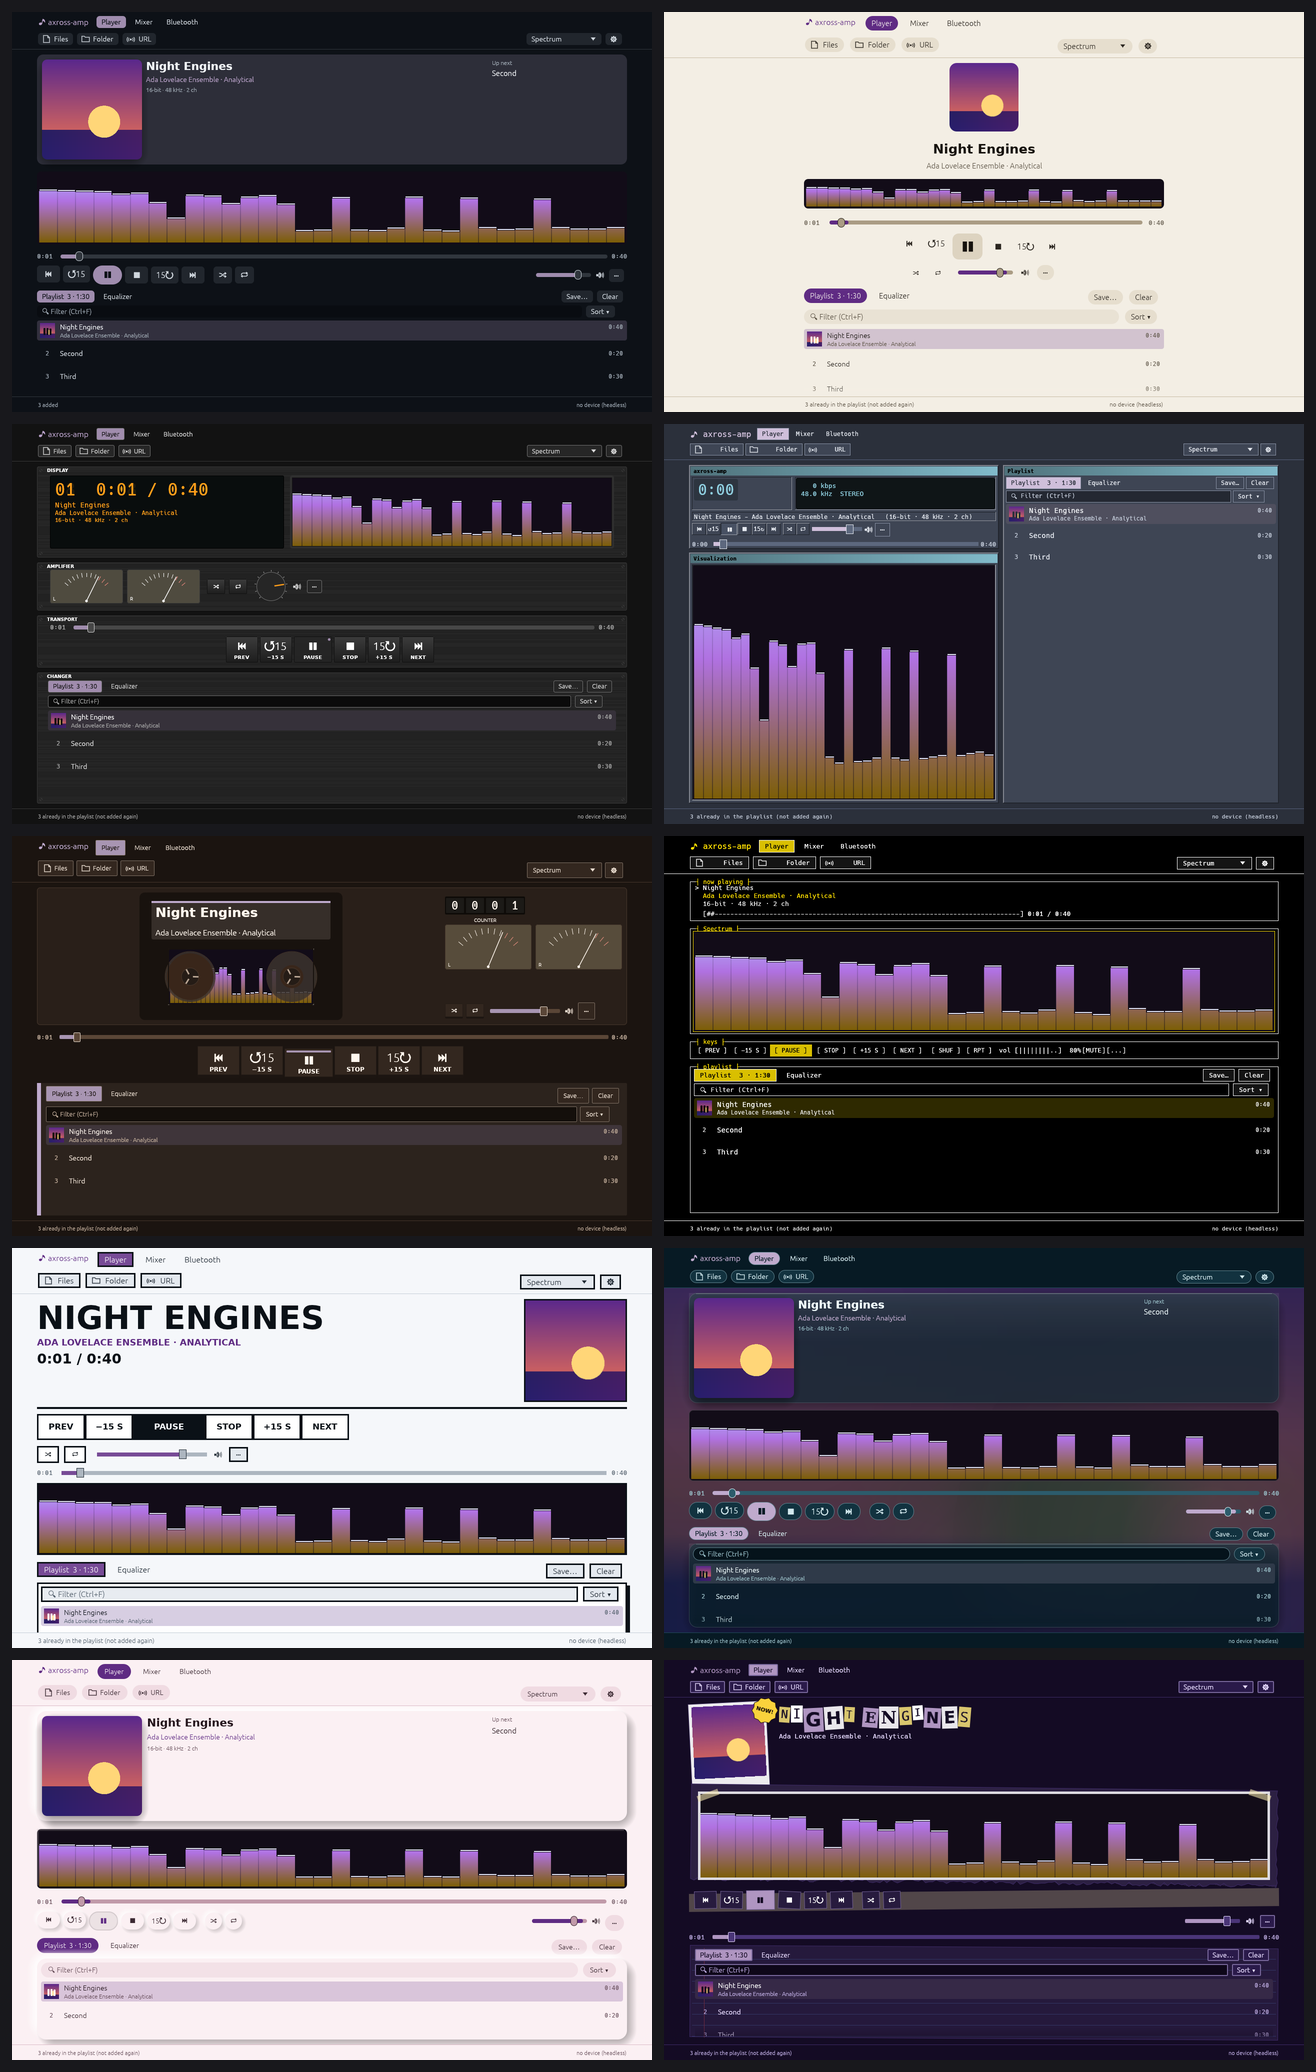
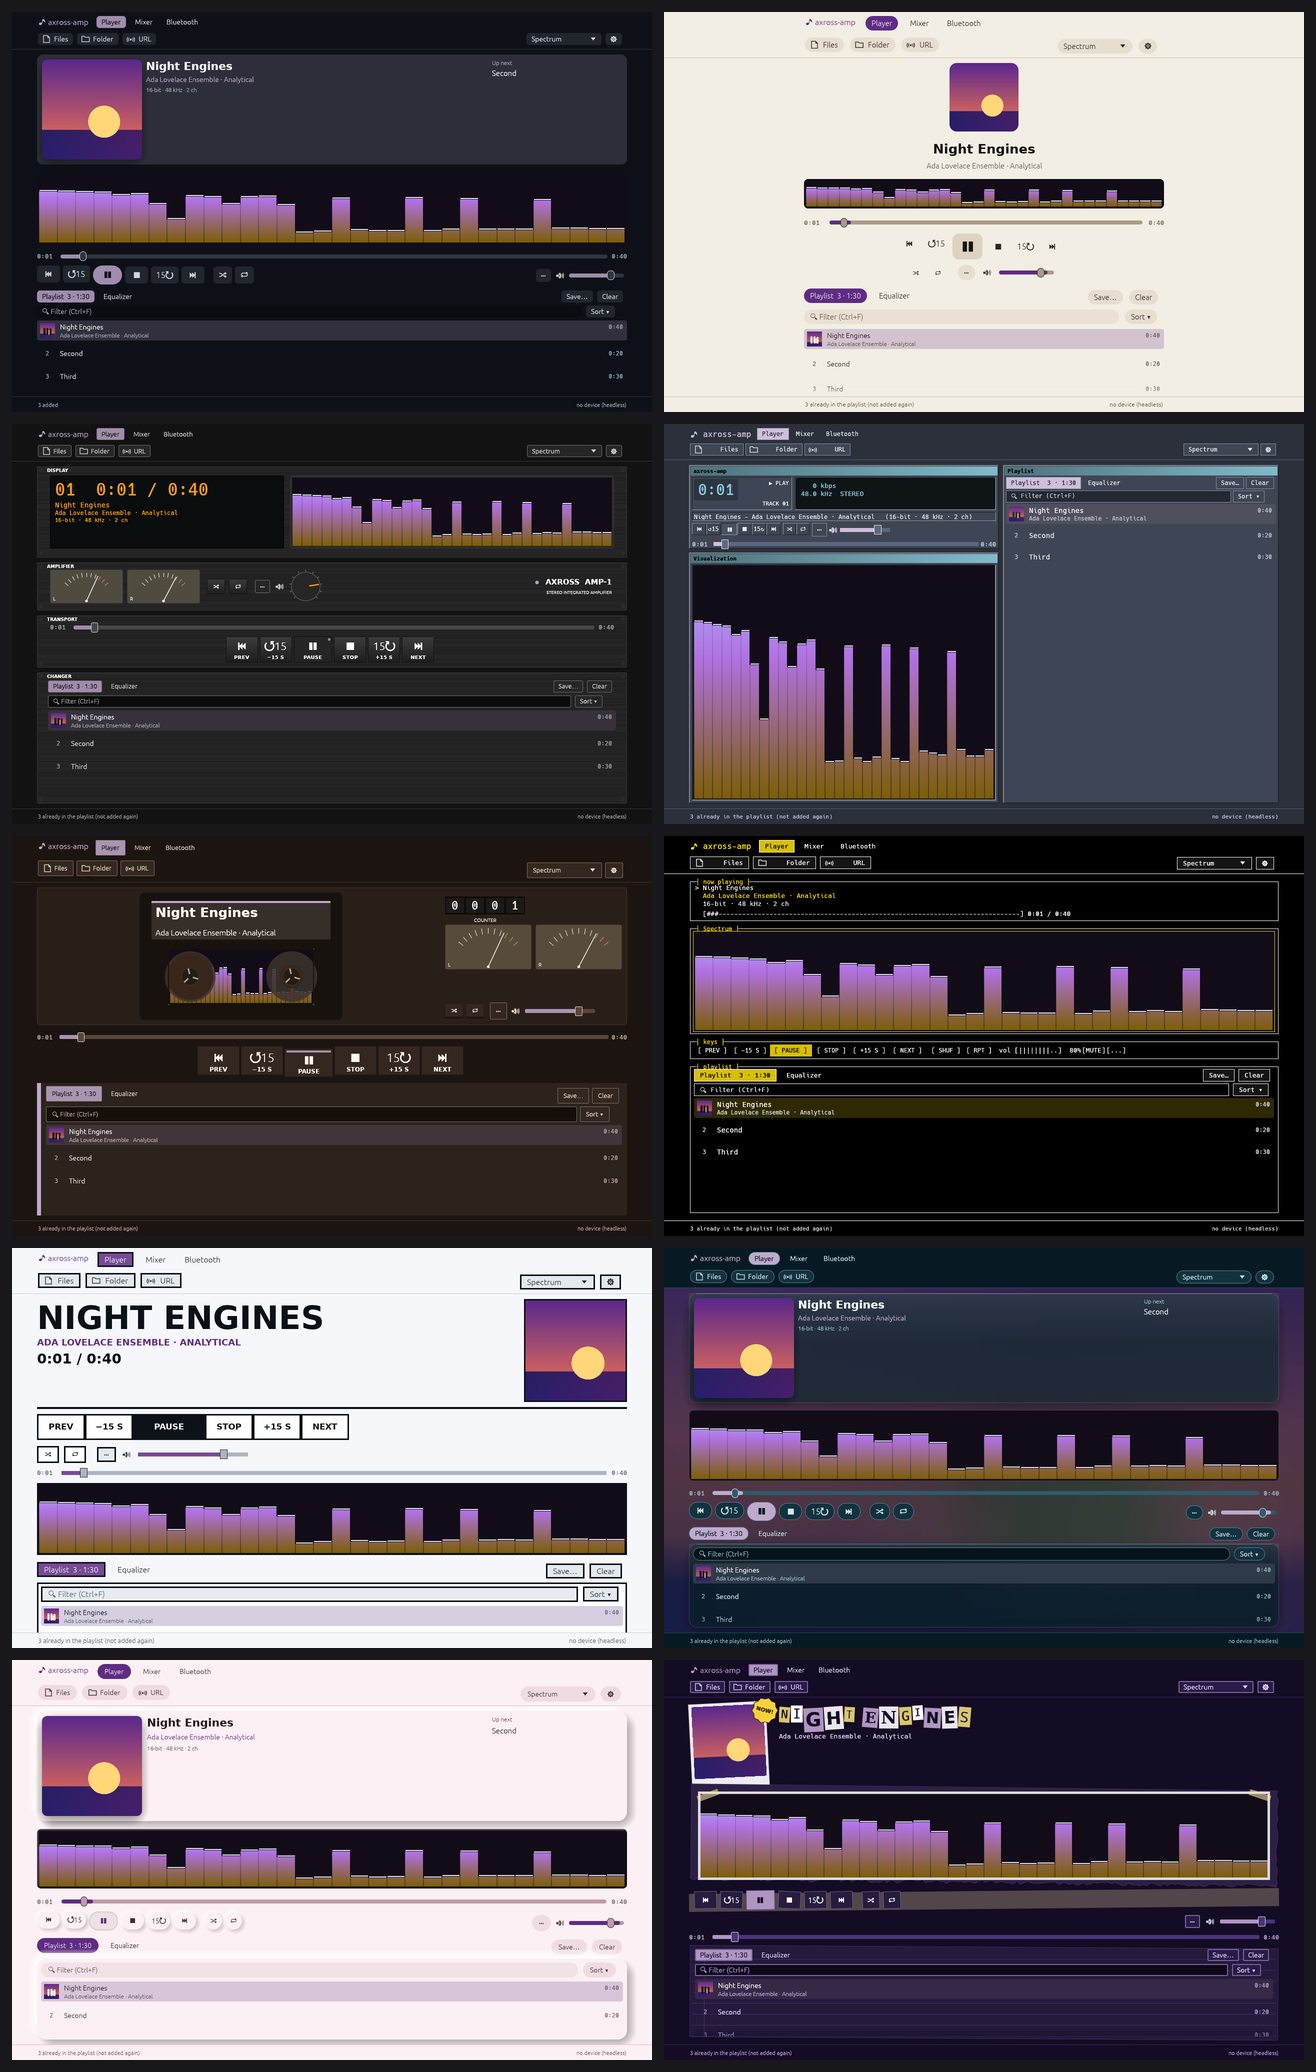
README for review 8; the volume at the row's end again; no shadow on the brutalist slab; the gallery at 1280 x 800
- README: Show on display (sound matched by the display's name, put back
  with the card's profile and across a restart, never holding the window,
  the guard in points, Wayland's list, xrandr only when wanted), following
  the desktop, the designs as layouts, focused controls keep their keys,
  paused stays paused, the gamma red reading and the sweep's numbers, and
  the guard's cost - not met, said so.
- The volume group left to right as it was seen before: ⋯, mute, the
  volume at the row's end (tests/states.rs and tests/seek15.rs expect it).

Changed region(s): [[0.9035, 0.7104, 0.9658, 0.7413], [0.1558, 0.6795, 0.1869, 0.7104], [0.0623, 0.6795, 0.0935, 0.7104]]

diff --git a/src/app_layouts.rs b/src/app_layouts.rs
@@ -142,6 +142,35 @@ impl App {
     /// The volume (a slider, or a knob of `knob` points), mute and the ⋯
     /// menu, left to right; the sleep timer's words after them.
     pub(super) fn volume_group(&mut self, ui: &mut Ui, knob: Option<f32>, slider: f32) {
+        // (left to right as they are seen: the sleep timer's words, ⋯,
+        // mute, the volume at the end)
+        if let Some(label) = self.sleep_label() {
+            ui.label(RichText::new(label).small().color(self.accent));
+        }
+        egui::containers::menu::MenuButton::from_button(
+            egui::Button::new(RichText::new("⋯").size(16.0)).min_size(vec2(24.0, 24.0)),
+        )
+        .ui(ui, |ui| self.more_menu(ui))
+        .0
+        .accessible_name("More")
+        .on_hover_text("Sleep timer, ReplayGain, track details, mixer");
+        let icon = if self.muted || self.volume == 0 {
+            "🔇"
+        } else {
+            "🔊"
+        };
+        if ui
+            .add(
+                egui::Button::new(RichText::new(icon).size(16.0))
+                    .frame(false)
+                    .min_size(vec2(24.0, 24.0)),
+            )
+            .accessible_name("Mute")
+            .on_hover_text("Mute (M)")
+            .clicked()
+        {
+            self.set_muted(!self.muted);
+        }
         let mut volume = self.volume;
         let response = match knob {
             Some(side) => design::knob(ui, &mut volume, "Volume", side),
@@ -162,33 +191,6 @@ impl App {
         let notches = self.wheel_steps(ui, &response);
         if notches != 0 {
             self.set_volume((self.volume as i32 + 5 * notches).clamp(0, 100) as u32);
-        }
-        let icon = if self.muted || self.volume == 0 {
-            "🔇"
-        } else {
-            "🔊"
-        };
-        if ui
-            .add(
-                egui::Button::new(RichText::new(icon).size(16.0))
-                    .frame(false)
-                    .min_size(vec2(24.0, 24.0)),
-            )
-            .accessible_name("Mute")
-            .on_hover_text("Mute (M)")
-            .clicked()
-        {
-            self.set_muted(!self.muted);
-        }
-        egui::containers::menu::MenuButton::from_button(
-            egui::Button::new(RichText::new("⋯").size(16.0)).min_size(vec2(24.0, 24.0)),
-        )
-        .ui(ui, |ui| self.more_menu(ui))
-        .0
-        .accessible_name("More")
-        .on_hover_text("Sleep timer, ReplayGain, track details, mixer");
-        if let Some(label) = self.sleep_label() {
-            ui.label(RichText::new(label).small().color(self.accent));
         }
     }
 

diff --git a/src/design.rs b/src/design.rs
@@ -694,18 +694,7 @@ pub fn panel(p: &Painter, rect: Rect, d: &Design, t: &Theme, fill: Color32, seed
                 Stroke::new(3.0, t.strong),
                 egui::StrokeKind::Inside,
             );
-            // the slab's offset block below right: a hard shadow
-            let block = rect.translate(vec2(6.0, 6.0));
-            p.rect_filled(
-                Rect::from_min_max(pos2(rect.right(), block.top()), block.right_bottom()),
-                0.0,
-                t.strong,
-            );
-            p.rect_filled(
-                Rect::from_min_max(pos2(block.left(), rect.bottom()), block.right_bottom()),
-                0.0,
-                t.strong,
-            );
+            // (no shadow: a brutalist slab is flat - its weight is its frame)
         }
         Panel::Paper => {
             // a sheet behind, turned a little (still: no motion), the card

diff --git a/README.md b/README.md
@@ -402,13 +402,23 @@ What axross-amp does about it:
   half after. Seven, not six: the veil's own coming is a change too, and
   at six it would make the seventh. So the guard does not by itself hold a
   face to six; it caps what the faces do not foresee. On ordinary music - pop,
-  house, drum and bass - it does not come (a test). It costs about 1.5 - 3.5
-  ms of the CPU a frame (`--release`, `tests/frame_cost.rs`, the faces with
-  and without it: the spectrum 1.6, the cover 1.9, the plasma 1.5); more for
-  the faces of thousands of pieces: the spirograph 4 - 6 ms, the particles
-  7 - 9 ms at 1920 x 1080 and 3840 x 2160, the skyline 5.5 ms at 3840 x
-  2160 - over the 2 ms an independent review asked for, not yet met. The frame rate's cap on a
-  software renderer counts it in.
+  house, drum and bass - it does not come (a test). It costs the CPU
+  about 1.5 - 2 ms a frame on most faces at 1920 x 1080 (`--release`, an
+  independent review's bench, the face with and without it: the spectrum
+  1.7, the plasma 1.5, the cover 2.0), and more on the faces of thousands of
+  pieces: the spirograph 5.1 ms, the particles 7.1 ms at 1920 x 1080 and 9.1
+  at 3840 x 2160, the skyline 5.6 at 3840 x 2160. **Not met**: an independent review asked for about 2 ms on
+  the shape-heavy faces. The guard lays every piece the face drew on its
+  grid (about 0.6 µs a piece, and 0.5 ms whatever the face); laying only one
+  piece in so many was tried and undone - one dot of the particles in two,
+  counted twice, made a grating of the estimate and the pattern stage
+  softened the face. A coarse picture of the face rendered on the GPU and
+  read back would be the way; it is not done. So the particles, the
+  spirograph and the skyline (at 3840 x 2160) do not hold 60 frames a
+  second on a laptop's CPU with the guard on: 60 frames a second is not
+  supported for them. With a GPU a frame of theirs simply takes as long as
+  the guard does; on a software renderer the frame-rate governor lowers
+  their rate (it counts the guard in). The guard is never dropped.
 - **A pattern stage in the guard** (ITU-R BT.1702), for stripes no face
   foresaw - a cover of checks, a striped custom scheme: regular stripes
   in the estimate (five light-dark pairs or more in a row or column of
@@ -447,12 +457,18 @@ What axross-amp does about it:
   option, Calm and Intense, in Classic, Neon, Mono, Fire and five extreme
   custom schemes - white on black, pure red (#ff0000, peak #ff3030) on
   black, black on white, black on a pure red ground, and the colour
-  editor's own defaults - at 320 x 180: 936 cases, **all pass all three
-  readings** (each face last measured after its last change). The most by
-  the normal reading: 4 transitions a second, red 4; by the strict
+  editor's own defaults - at 320 x 180: 936 cases, **all pass all four
+  readings** (the whole sweep run again with the gamma reading in it; the
+  ring, changed after it, swept again in all nine schemes, Calm and Intense: 18 cases, all
+  pass - at most 5 by the strict reading, 3 by the either-way one). The
+  most by the normal reading: 4 transitions a second, red 4; by the strict
   reading: 6, red 6 (14 cases at the limit, 13 of them in *Intense*); by
-  the either-way reading: 4, red 4; moving stripes in no frame; standing
-  stripes at most 35 % (40 % allowed). `AMP_FLASH_OPTIONS=extreme` runs it
+  the either-way reading: 4, red 4; red by the gamma-encoded reading 6
+  (the Julia set, Intense, Fire); moving stripes in no frame; standing
+  stripes at most 35 % (40 % allowed). At 30 and 12 frames a second (a
+  slow renderer's) every face passes too - the ring's near bars at 12
+  frames came to 7 by the either-way reading until they followed by
+  150 ms there. `AMP_FLASH_OPTIONS=extreme` runs it
   with the Options at their extremes (Smoothing 0 asked, its
   floor given - 85 % at 128 bars; 128 bars; peaks falling at 300 % a second asked, 100 %
   given): in Classic, Neon, white on black, black on white and the colour
